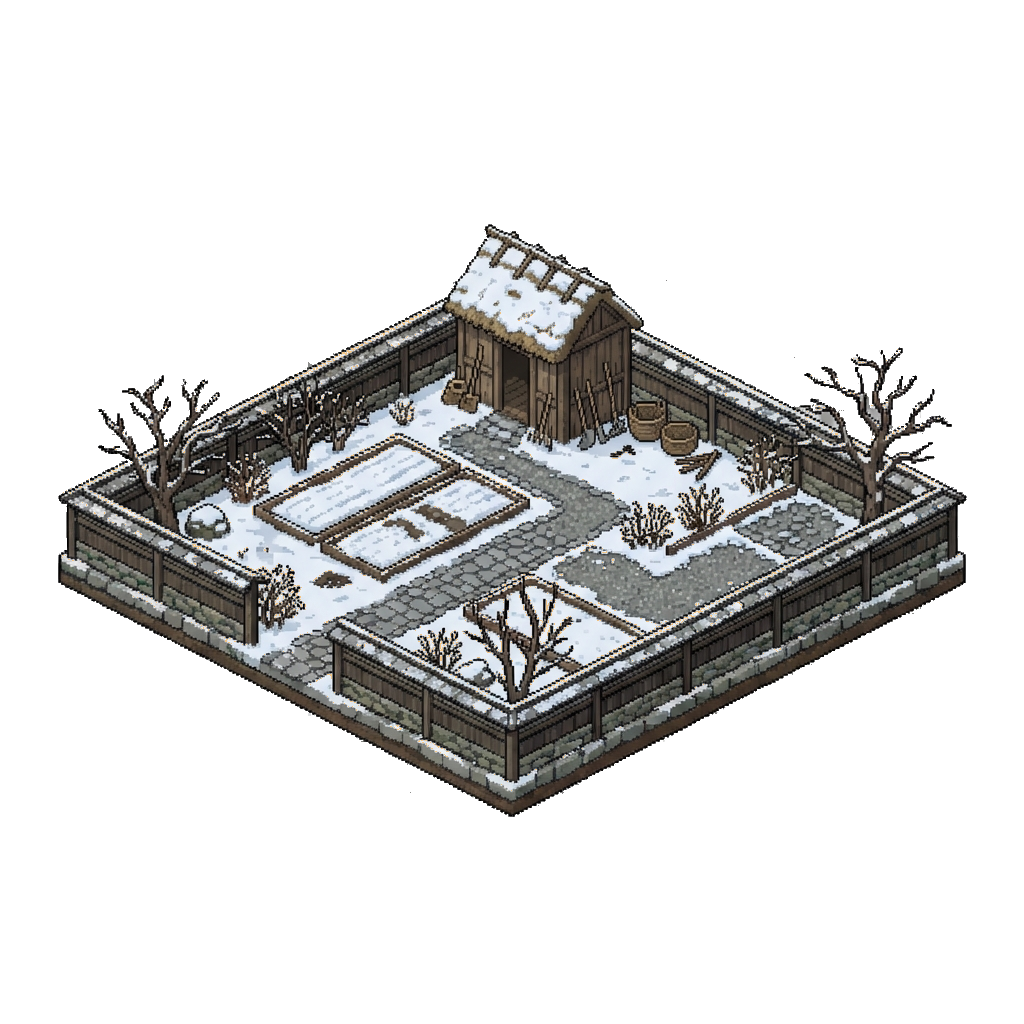
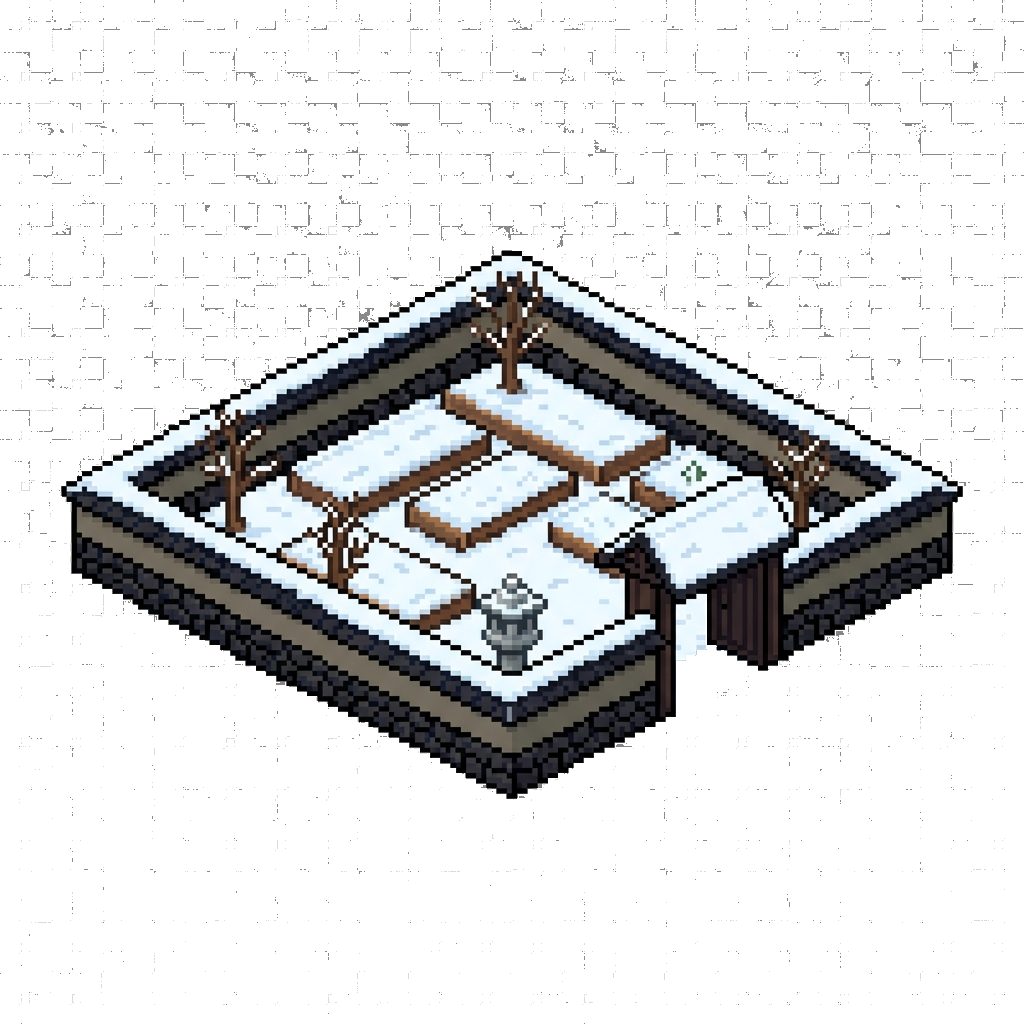
fix: replace wrong autumn-tree deer sprite + new isometric garden + remove floating Y offset
- deer.png: was an autumn red/orange tree with cyan sky baked in — replaced with actual
  pixel art deer (antlers, brown fur, transparent bg)
- garden-l1.png: regenerated as proper isometric 3D walled garden enclosure (was top-down)
- Building.js: removed hardcoded 20% Y offset that was making all buildings float;
  sprites with base at canvas bottom now sit flush on ground plane
- TownScene: 120-flake animated snowfall overlay added

Changed region(s): [[0.0312, 0.2188, 0.9688, 0.8125]]

diff --git a/ui/src/entities/Building.js b/ui/src/entities/Building.js
@@ -123,30 +123,23 @@ export default class Building {
         const img = this.scene.add.image(0, 0, texKey);
         // Pixel art: nearest-neighbor filter for crisp rendering
         img.texture.setFilter(Phaser.Textures.FilterMode.NEAREST);
-        // Uniform scale: all sprites are 512×512 per style guide.
-        // Scale so 1 grid cell = TILE_W screen pixels wide.
-        // The building base diamond spans ~60% of canvas width (≈307px of 512px),
-        // so target display width = gridW * TILE_W / 0.6 to fit footprint correctly.
+        // Uniform scale: target display width = gridW * TILE_W so footprint matches grid.
+        // All sprites are generated with the building base at the very bottom of the canvas,
+        // so setOrigin(0.5, 1.0) places the base exactly on the isometric ground plane.
         const TILE_W = 64;
-        const SPRITE_CANVAS = 512; // expected canvas size per style guide
-        const FOOTPRINT_RATIO = 0.60; // building base = 60% of canvas width
-        const targetW = (this.gridW * TILE_W) / FOOTPRINT_RATIO;
-        // Non-compliant sprites (1024, 1408-wide etc.) scale proportionally from same formula
+        const targetW = this.gridW * TILE_W * 1.8; // 1.8x footprint: buildings visually taller than ground
         const scale = targetW / img.width;
         img.setScale(scale);
         const spriteH = img.displayHeight;
-        // Anchor at bottom-center of canvas. The building base sits at ~80% down
-        // the canvas (y=400 of 512), so we offset up by 20% of display height to
-        // put the base on the ground plane rather than the canvas bottom edge.
+        // Origin at bottom-center — base of sprite sits on ground. No Y offset needed
+        // as long as sprites are generated with their base at the canvas bottom edge.
         img.setOrigin(0.5, 1.0);
-        const baseOffsetFraction = (img.height - img.height * 0.80) / img.height; // top 20%
-        img.setY(-baseOffsetFraction * spriteH);
+        img.setY(0);
         this.container.addAt(img, 0); // add behind label
         this.spriteImg = img;
 
-        // Label: place above the visible top of the sprite
-        const visibleTop = spriteH * (1 - baseOffsetFraction);
-        this.label.setPosition(0, -(visibleTop + 6));
+        // Label: place above the sprite
+        this.label.setPosition(0, -(spriteH + 6));
         this.label.setText(`${this._shortName()} Lv${this.level}`);
         // DO NOT set sprite interactive — grid-based click detection handles it
         // (sprite bounds would allow clicks on empty sky above the building)
